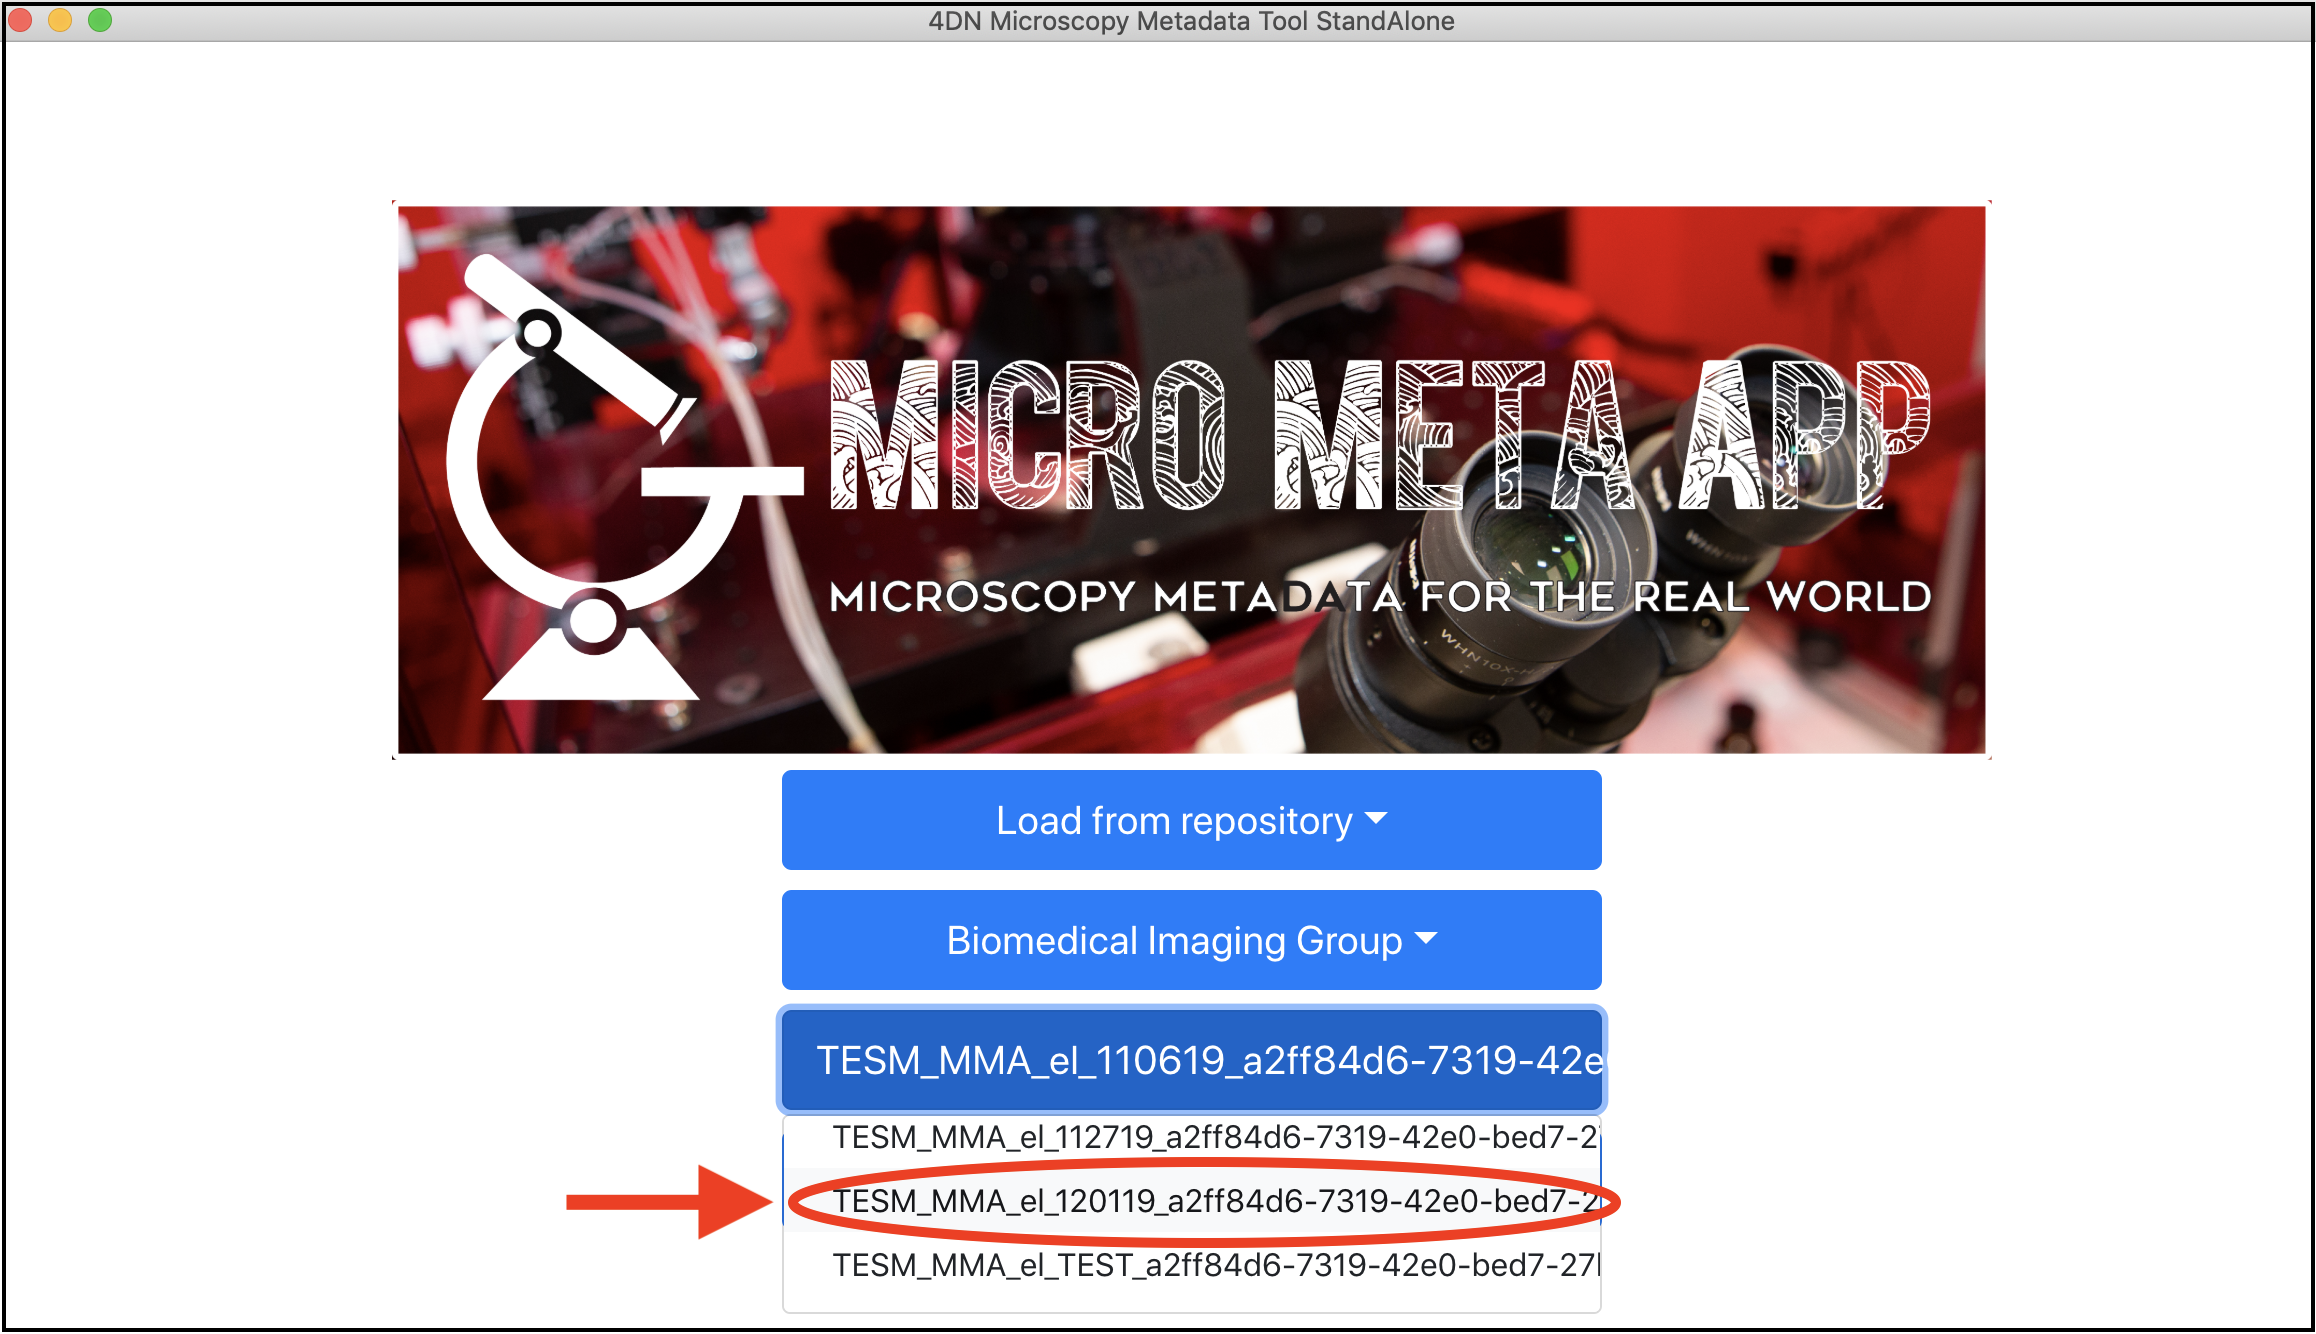
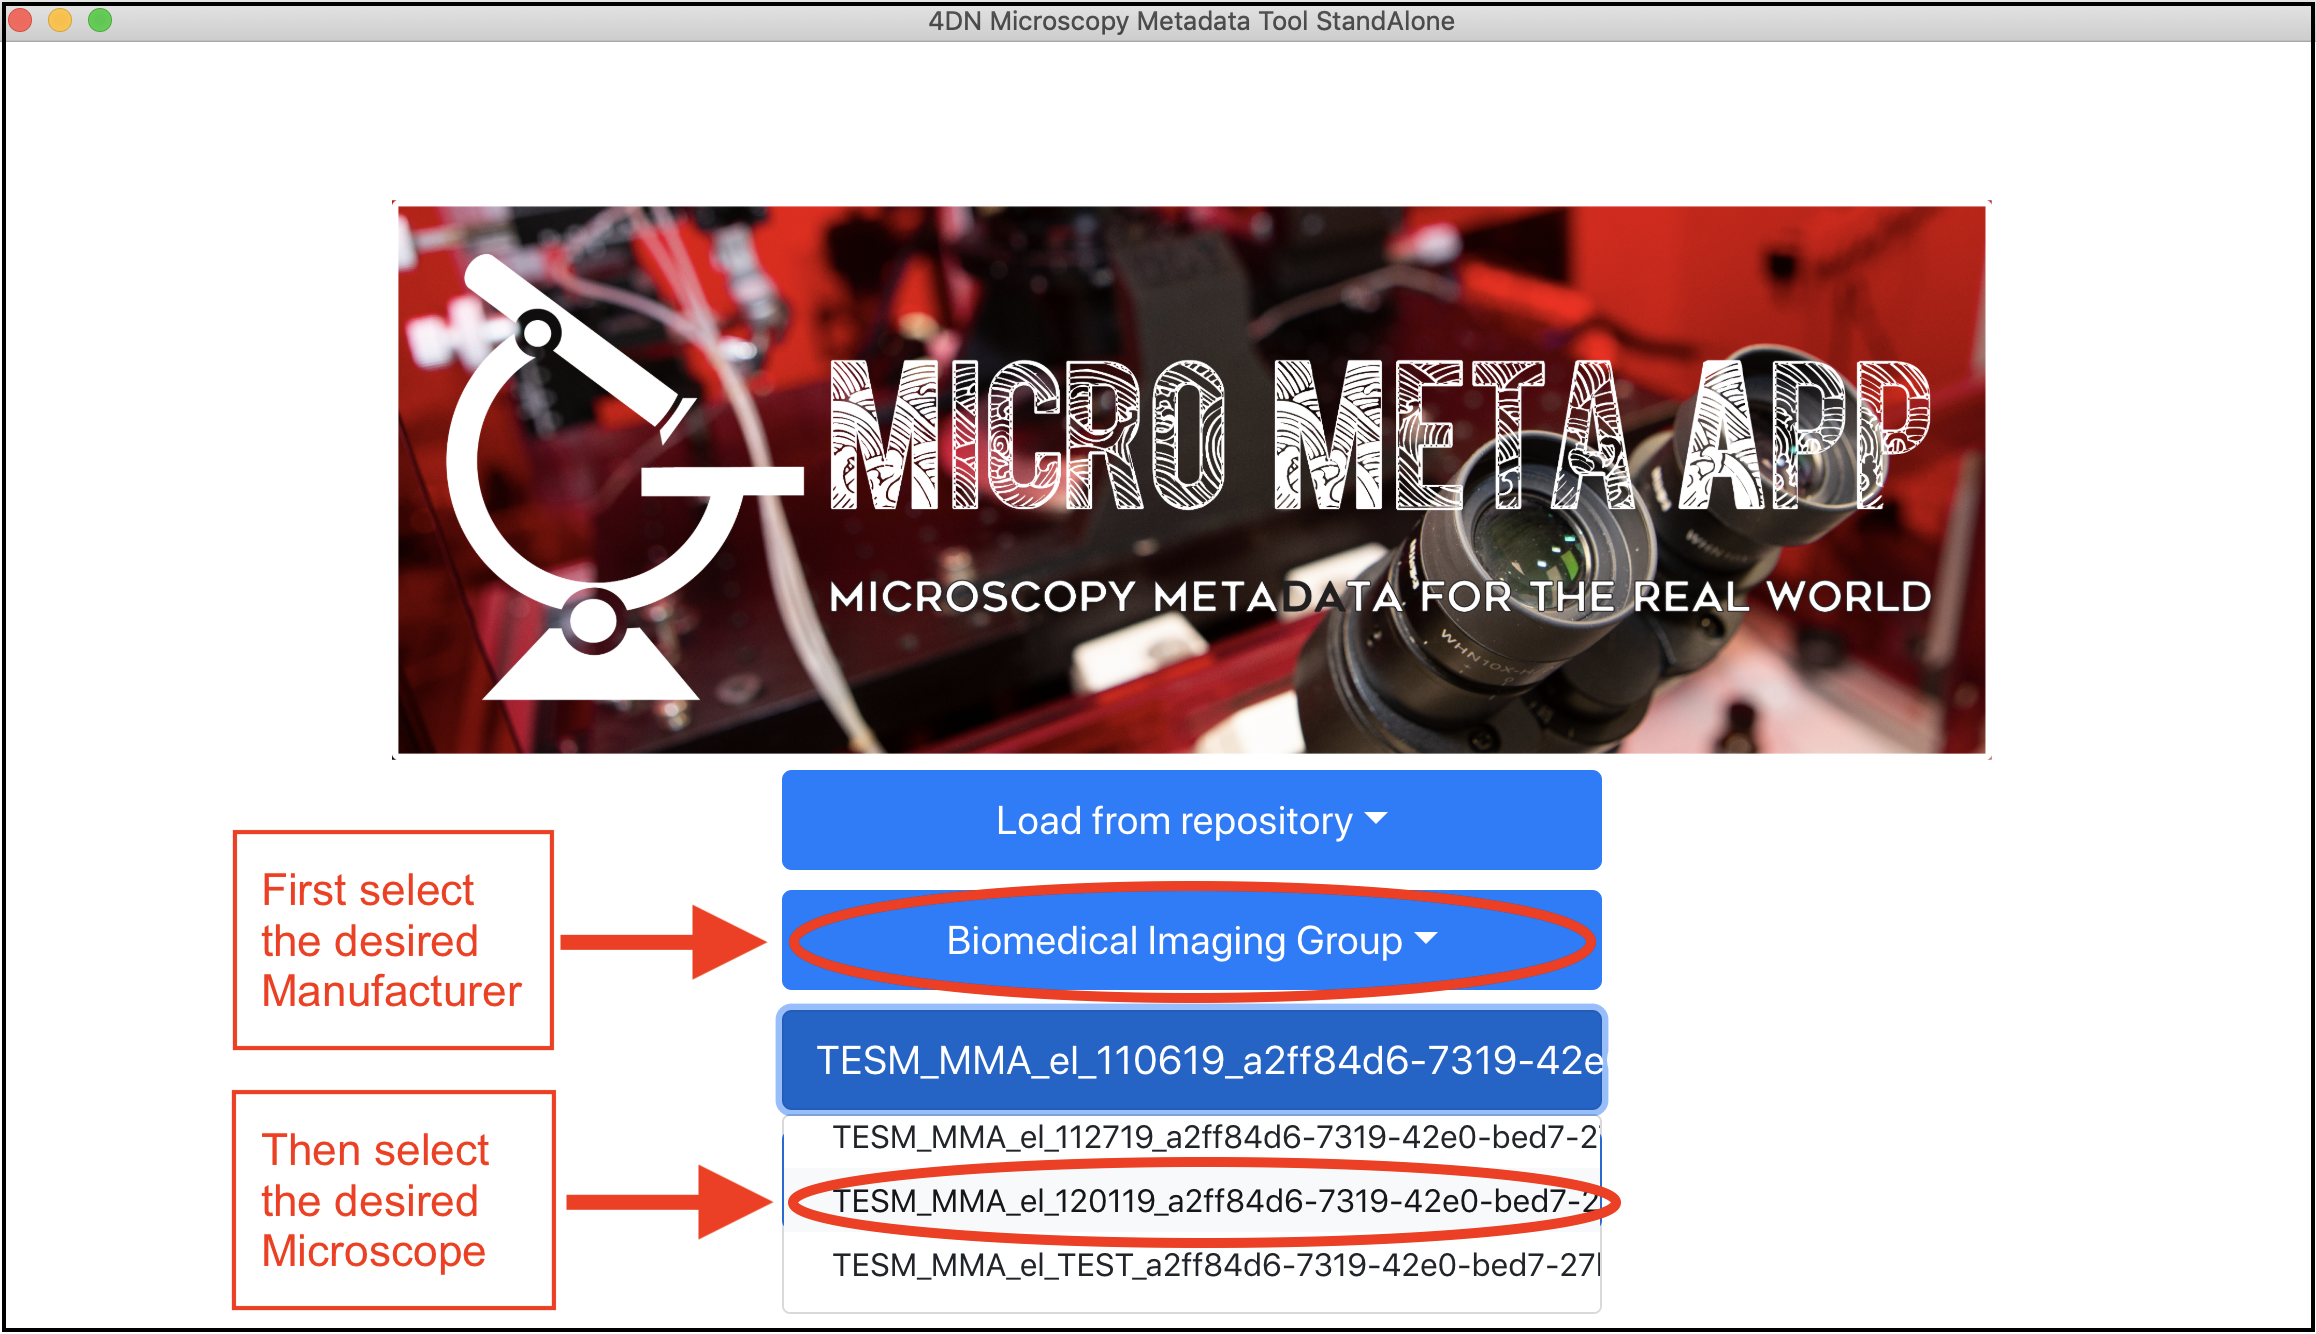
Added change validation tier level and Use.rst text

Changed region(s): [[0.0933, 0.6147, 0.4041, 0.9835], [0.4041, 0.6454, 0.6839, 0.7376], [0.4041, 0.7376, 0.6218, 0.7684]]

diff --git a/docs/tutorials/use.rst b/docs/tutorials/use.rst
@@ -1,15 +1,30 @@
 ====================
 Using Micro-Meta App
 ====================
-Please follow these step by step instructions.
+
+Micro-Meta App collects Microscopy Hardware, Imaging Acquisition Settings, and Quality Control metadata on the basis of the `4DN Nucleome-BINA Microscopy Metadata Guidelines <https://arxiv.org/abs/1910.11370>`_ which are an extension of the `OME Core Model <https://docs.openmicroscopy.org/ome-model/5.6.1/developers/model-overview.html>`_ and have been developed in the context of the `4D Nucleome (4DN) initiative <https://www.4dnucleome.org/>`_ and the `Bioimaging North America <https://www.bioimagingna.org>`_ `Quality Control and Data Management Working Group <https://www.bioimagingna.org/qc-dm-wg>`_
+
+One key feature of the `4DN-BINA extension of the OME Core Model <https://github.com/WU-BIMAC/MicroscopyMetadata4DNGuidelines/tree/master/Model/stable%20version/v01-07>`_ is that in order to make things easier for the user, the metadata guidelines scale with experimental intent and complexity.
+Thus the 4DN-BINA extension of the OME Core Model sets up a set of `5 Tiers <https://github.com/WU-BIMAC/MicroscopyMetadata4DNGuidelines/tree/master/Tier%20System/stable%20version/v01-01>`_ that sanctions which metadata information has to be provided to facilitate reproducibility and sharing of imaging data in a way that takes into account the scientific questions and techniques being used.
+
+For example, **Tier 1** is set up to represent the **Minimum Information about Fluorescence Microscopy Experiment** guidelines and it recommended when no image analysis is required for the interpretation of image data.  **Tier 3** is utilized to document **image data that requires advanced image analysis** for knowledge extraction and interpretation. Finally, **Tier 5** is recommended for the **full description of  Microscope Hardware** and should be used by both academic and commercial microscope manufacturers.
+
+In order to facilitate the documentation of Microscopy experiments, **Micro-Meta App incorporates the Tiered Guidelines concept**. As a result, when creating a brand new or when opening an existing Microscope metadata file it is first necessary to select the desired Tier level. This garners maximal flexibility as an existing Microscope metadata file can be successively opened at a higher Tier level while preserving information that had already been entered.
+
+In addition, a Microscope metadata file that is opened at a given Tier level can be later validated and saved at a lower Tier level thus facilitating the gradual accumulation of the required information across multiple sessions.
 
 ******************************************
 A. Managing Microscope Specification files
 ******************************************
+Please follow these step by step instructions.
 
 A.1 Selecting Tier level
 ========================
 Click on the "Tier" selector and select the Tier level you are interested in and click on “Create microscope”.
+
+.. tip::
+
+  Please note that a Microscope metadata file that has been opened at a given Tier level can be validated and saved at a lower level, thus facilitating the work required for full documentation by allowing it to be done over multiple sessions.
 
 .. .. figure:: images/use_images/01_Select-Tier_1.png
 ..   :class: shadow-image
@@ -86,7 +101,7 @@ First select the Manufacturer of the Microscope and then select the desired Micr
 
 A.3 Adding and Editing Hardware components to the Canvas
 ========================================================
-After opening a new or an existing Microscope file, if available all pre-existing Hardware components will appear on the Canvas. In this example the TESM microscope custom built by the BioMedical Imaging Group of the University of Massachusetts Medical School Program in Molecular Medicine, is displayed with several existing components.
+After opening a new or an existing Microscope file, if available all pre-existing Hardware components will appear on the Canvas. In this example the TIRF Epi-Fluorescence Structured Light Microscope `(TESM) <here <https://trello.com/b/BQ8zCcQC/tirf-epi-fluorescence-structured-light-microscope>`_ custom built at the University of Massachusetts Medical School `Program in Molecular Medicine <https://www.umassmed.edu/pmm>`_ by members of the `Bio-Medical Imaging Group <http://big.umassmed.edu>`_, is displayed with several existing components.
 
 .. figure:: images/use_images/08_Open_Microscope.png
   :class: shadow-image
@@ -142,12 +157,14 @@ In the case of Filters, Dichroic, and LED light sources, it is possible to add m
 
 A.4 Saving Microscope files
 ===========================
+In order to facilitate entering the require microscopy hardware metadata, the Tier level used to validate the Microscope metadata file can be changed by clicking on the Tier selector.
+When you are done with all the editing the Microscope file can be saved to the Repository or Home folder or exported as a file. In addition you can navigate back to the the opening screen to work on a different Microscope metadata file or to choose a different Tier level for the current Microscope.
 
-When you are done with all the editing the Microscope file can be saved to the Repository or Home folder or exported as a file.
 
-.. figure:: images/use_images/14_Save_Microscope.png
+
+.. figure:: images/use_images/14_Change_Validation-Tier.png
   :class: shadow-image
   :width: 90%
   :align: center
 
-  Figure 10: Save the edited Microscope file.
+  Figure 10: Navigating back to the opening screen, changing validation Tier, and saving the Microscope metadata file.
